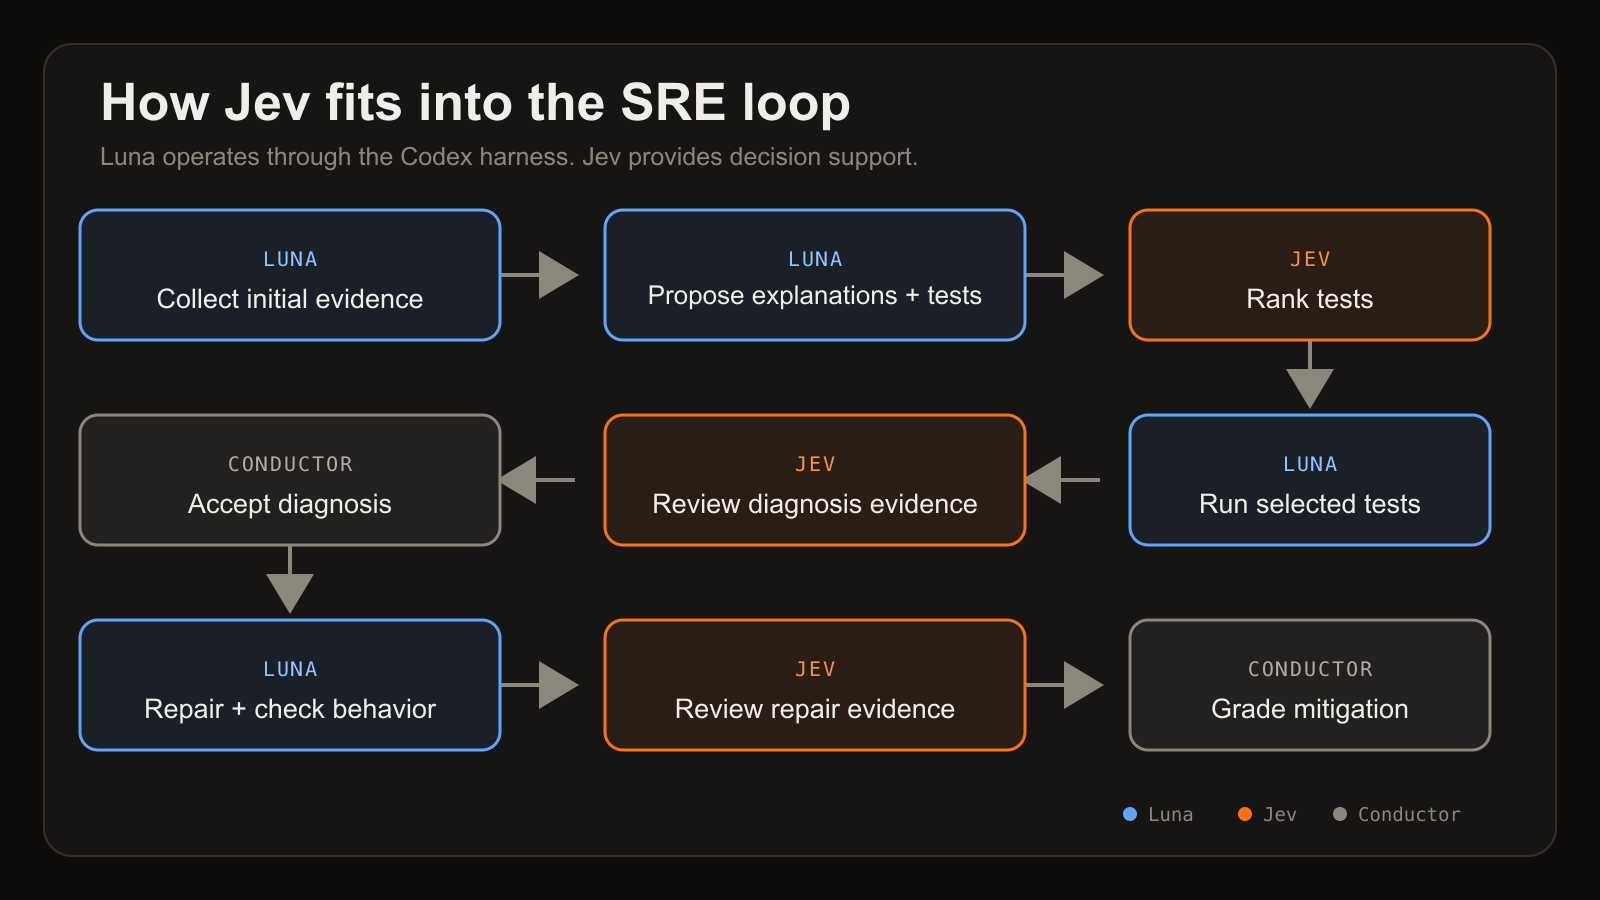
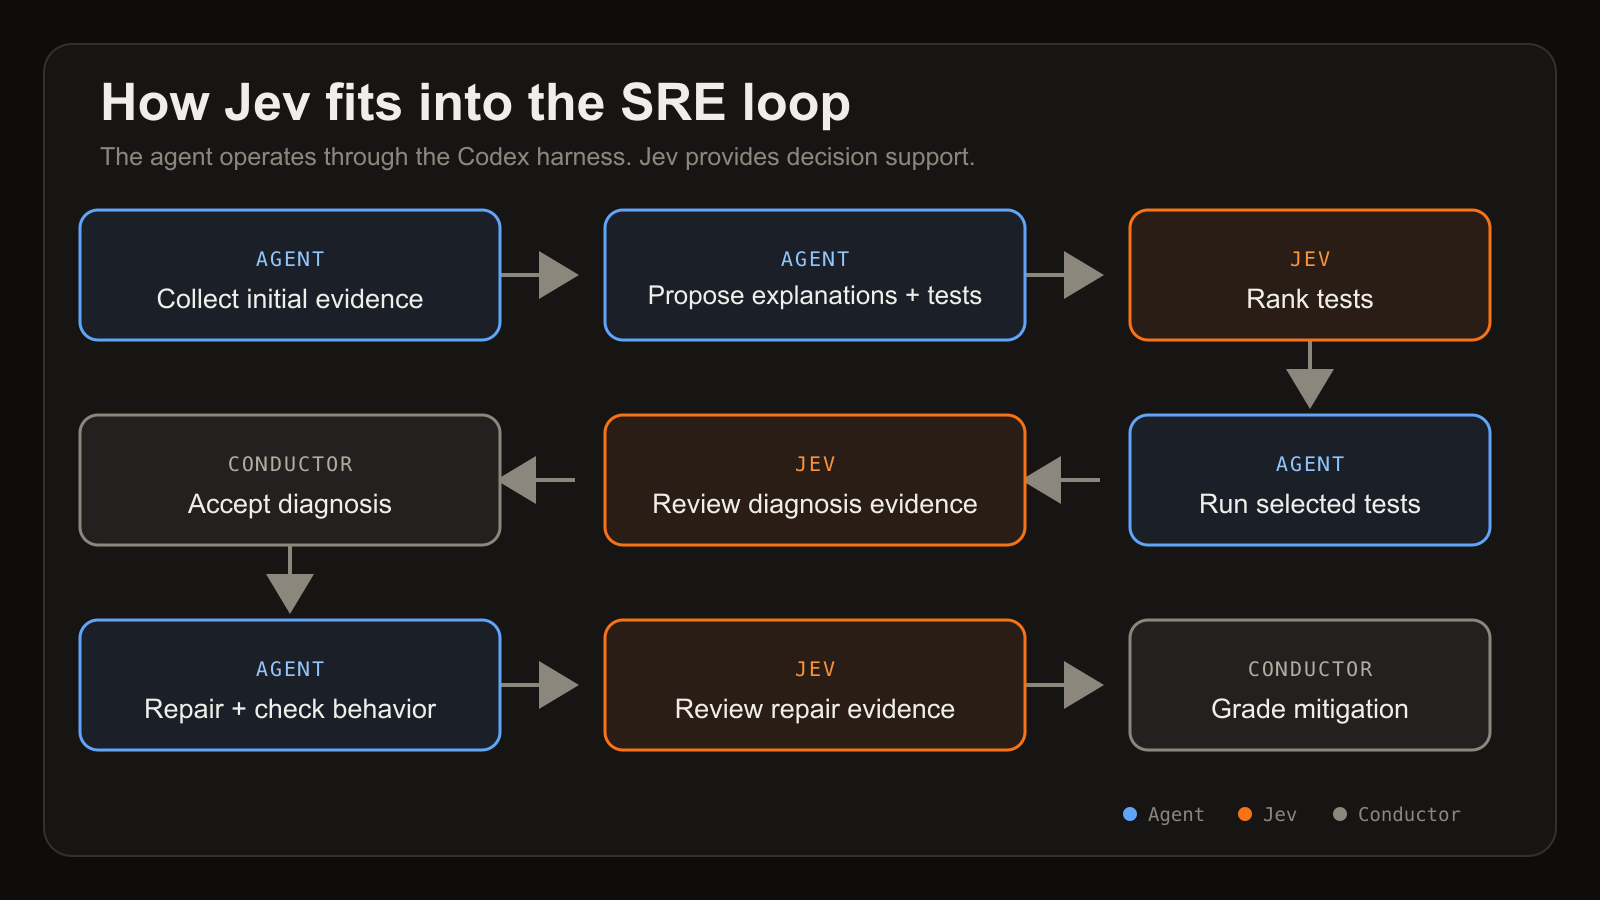
formatting + latest gdoc changes

diff --git a/components/blog/jev-workflow.tsx b/components/blog/jev-workflow.tsx
@@ -2,15 +2,15 @@ const phases = [
   {
     title: "Investigate",
     steps: [
-      { actor: "Luna", action: "Collect initial evidence" },
-      { actor: "Luna", action: "Propose explanations and tests" },
+      { actor: "Agent", action: "Collect initial evidence" },
+      { actor: "Agent", action: "Propose explanations and tests" },
       { actor: "Jev", action: "Rank the proposed tests" },
     ],
   },
   {
     title: "Validate",
     steps: [
-      { actor: "Luna", action: "Run the selected tests" },
+      { actor: "Agent", action: "Run the selected tests" },
       { actor: "Jev", action: "Review diagnosis evidence" },
       { actor: "Conductor", action: "Accept the diagnosis" },
     ],
@@ -18,7 +18,7 @@ const phases = [
   {
     title: "Recover",
     steps: [
-      { actor: "Luna", action: "Repair and check behavior" },
+      { actor: "Agent", action: "Repair and check behavior" },
       { actor: "Jev", action: "Review repair evidence" },
       { actor: "Conductor", action: "Grade the mitigation" },
     ],
@@ -34,7 +34,7 @@ export function JevWorkflow() {
       <figcaption id="workflow-caption">
         <span className="blog-eyebrow blog-muted">The decision loop</span>
         <p className="mt-2 text-xl font-medium tracking-tight">
-          Luna acts. Jev reviews.
+          The agent acts. Jev reviews.
         </p>
       </figcaption>
       <ol className="workflow-phases">
@@ -64,8 +64,8 @@ export function JevWorkflow() {
         ))}
       </ol>
       <p className="blog-muted mt-5 border-t pt-4 text-xs leading-relaxed">
-        If a review rejects a submission, Luna returns to planning and gathers
-        new evidence.
+        If a review rejects a submission, the agent returns to planning and
+        gathers new evidence.
       </p>
     </figure>
   );

diff --git a/app/(home)/blog/blog.css b/app/(home)/blog/blog.css
@@ -259,6 +259,25 @@
   gap: 16px;
   margin-top: 24px;
 }
+.workflow-phases > li {
+  position: relative;
+  min-width: 0;
+}
+.workflow-phases > li:not(:last-child)::after,
+.workflow-step:not(:last-child)::after {
+  content: "";
+  position: absolute;
+  width: 14px;
+  height: 10px;
+  background: var(--blog-muted);
+  clip-path: polygon(0 40%, 62% 40%, 62% 0, 100% 50%, 62% 100%, 62% 60%, 0 60%);
+  opacity: 0.8;
+  pointer-events: none;
+}
+.workflow-phases > li:not(:last-child)::after {
+  top: 5px;
+  right: -15px;
+}
 .workflow-phase-title {
   display: flex;
   align-items: center;
@@ -280,15 +299,21 @@
 }
 .workflow-steps {
   display: grid;
-  gap: 8px;
+  gap: 16px;
 }
 .workflow-step {
+  position: relative;
   display: flex;
   gap: 8px;
   min-height: 99px;
   padding: 12px 10px;
   border: 1px solid var(--blog-rule);
   background: var(--background);
+}
+.workflow-step:not(:last-child)::after {
+  top: calc(100% + 3px);
+  left: 50%;
+  transform: translateX(-50%) rotate(90deg);
 }
 .workflow-step-number {
   flex-shrink: 0;
@@ -405,7 +430,14 @@
   }
   .workflow-phases {
     grid-template-columns: minmax(0, 1fr);
-    gap: 24px;
+    gap: 32px;
+  }
+  .workflow-phases > li:not(:last-child)::after {
+    top: auto;
+    right: auto;
+    bottom: -21px;
+    left: 50%;
+    transform: translateX(-50%) rotate(90deg);
   }
   .workflow-step {
     min-height: 0;

diff --git a/app/(home)/blog/[slug]/page.tsx b/app/(home)/blog/[slug]/page.tsx
@@ -59,7 +59,7 @@ export default async function BlogPostPage({ params }: PageProps) {
           <span className="blog-muted">{readingMinutes} min read</span>
         </div>
         <h1 className="blog-post-title">{page.data.title}</h1>
-        <p className="blog-muted mt-6 max-w-3xl text-lg leading-relaxed sm:text-xl">
+        <p className="blog-muted mt-6 max-w-3xl text-lg leading-relaxed font-semibold sm:text-xl">
           {page.data.description}
         </p>
         <p className="blog-byline">

diff --git a/jev-blog-twitter-thread.md b/jev-blog-twitter-thread.md
@@ -21,7 +21,7 @@ Our tools:
 
 Each question needed ≥0.70. The agent still ran the tests and acted.
 
-![Workflow showing how Luna, Jev, and the Conductor interact](./public/blog/jev/workflow.png)
+![Workflow showing how the agent, Jev, and the Conductor interact](./public/blog/jev/workflow.png)
 
 
 ## Post 3/8
